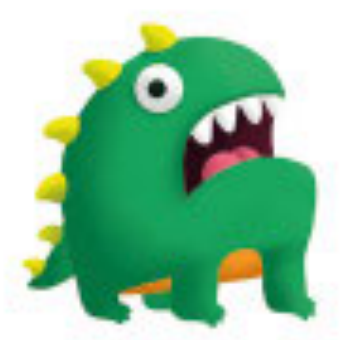
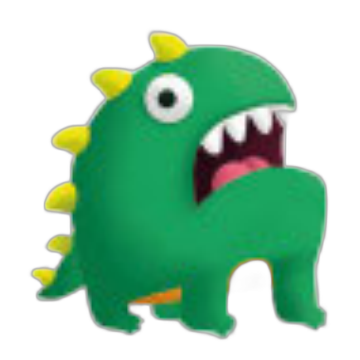
remove backgrounds from monsters and add images to select challenge

Changed region(s): [[0.0588, 0.0588, 0.9412, 0.9706]]

diff --git a/src/menuPrincipal.py b/src/menuPrincipal.py
@@ -1,5 +1,6 @@
 import tkinter as tk
 from tkinter import PhotoImage
+from PIL import Image, ImageTk
 
 def lancer_menu_principal():
     global root, window_width, window_height, screen_width, screen_height, x_position, y_position
@@ -41,6 +42,32 @@ def afficher_menu_defis():
     root.geometry(f"{window_width}x{new_height}+{x_position}+{(screen_height - new_height) // 2}")
 
     frames = []
+
+    # D D D D
+    # D B
+    # D D C T
+    # D D Y Y
+
+    # D : 0
+    # B : 1
+    # C : 2
+    # T : 3
+    # Y : 4
+
+    images_path = [
+        "data/monsters/diable.png",
+        "data/monsters/bat.png",
+        "data/monsters/champi.png",
+        "data/monsters/troll.png",
+        "data/monsters/yeti.png"
+    ]
+
+    challenges_monsters = [
+        [0, 0, 0, 0],
+        [0, 1],
+        [0, 0, 2, 3],
+        [0, 0, 4, 4]
+    ]
     
     # Suppression des widgets existants
     for widget in root.winfo_children():
@@ -64,9 +91,21 @@ def afficher_menu_defis():
         image_frame = tk.Frame(frame, bg="#003366")
         image_frame.pack(side="right", padx=20)
         
-        for _ in range(4):
-            img_label = tk.Label(image_frame, text="[IMG]", bg="white", width=10, height=5)
-            img_label.pack(side="left", padx=5)
+        for monster in challenges_monsters[i]:
+            # Charger l'image avec PIL
+            image = Image.open(images_path[monster])
+
+            # Redimensionner l'image à 100x100 pixels
+            image_resized = image.resize((100, 100), Image.Resampling.LANCZOS)
+
+            # Convertir l'image redimensionnée en format compatible avec Tkinter
+            monster_image = ImageTk.PhotoImage(image_resized)
+
+            # Afficher l'image dans un label
+            monster_image_label = tk.Label(image_frame, image=monster_image, width=100, height=100, background="#003366")
+            monster_image_label.image = monster_image  # Préserver la référence pour éviter le garbage collection
+            monster_image_label.pack(side="left", padx=5)
+ 
         
         btn_overlay = tk.Button(frame, text="", bg="#003366", activebackground="#002244", bd=0, highlightthickness=0, command=lambda f=frame, i=i+1: on_click(f, i))
         btn_overlay.pack(fill="both", expand=True, padx=5, pady=5)
